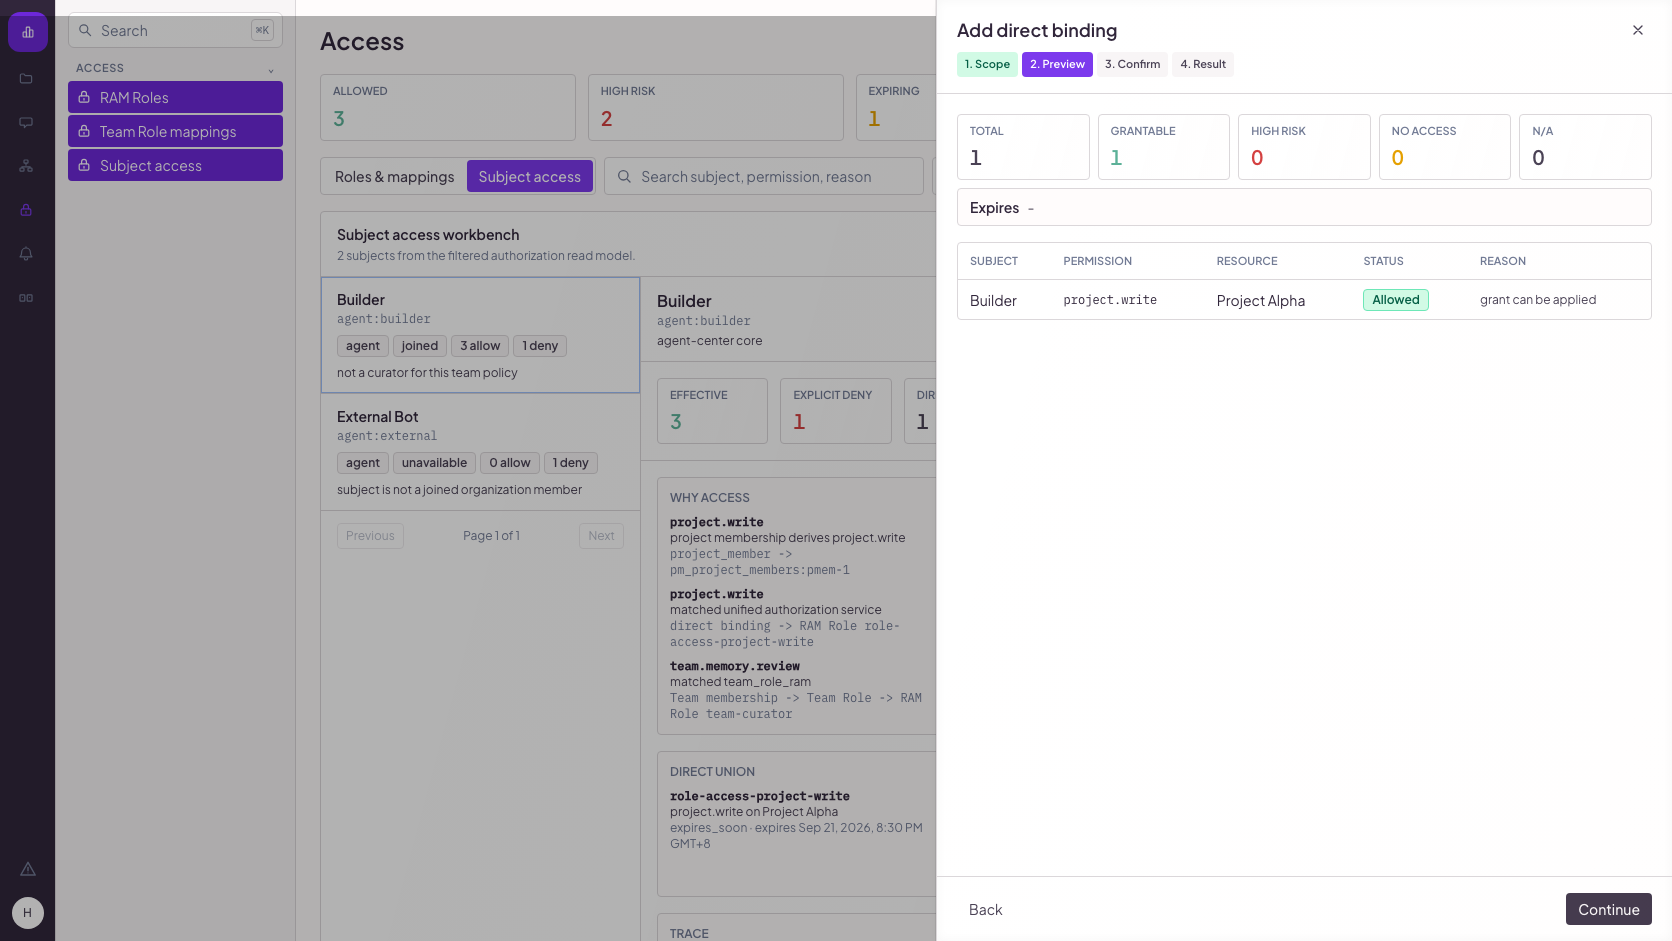
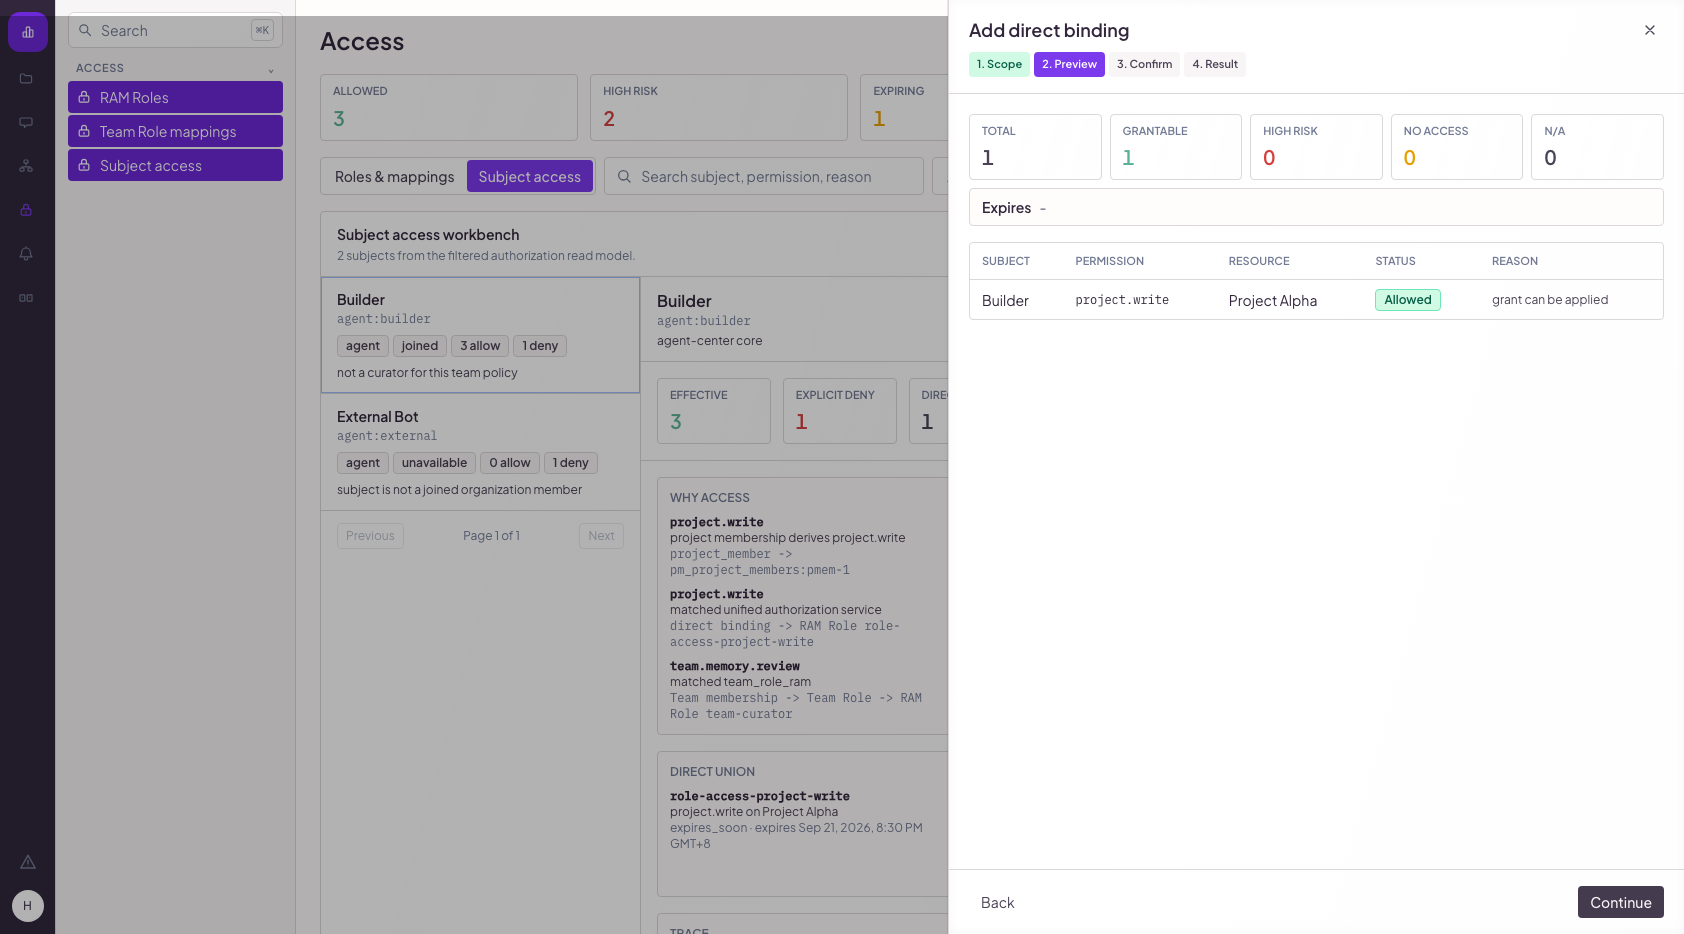
fix(access): enforce subject deny precedence

diff --git a/internal/webconsole/api/handlers_access_test.go b/internal/webconsole/api/handlers_access_test.go
@@ -5,6 +5,7 @@ import (
 	"encoding/json"
 	"fmt"
 	"net/http"
+	"strings"
 	"testing"
 	"time"
 
@@ -420,6 +421,125 @@ func TestAccessOverviewDirectBindingUsesResolverExpiryFailClosed(t *testing.T) {
 			t.Fatalf("expired direct assignment surfaced as grant: %+v", overview.Grants)
 		}
 	}
+}
+
+func TestAccessOverviewExplicitDenyPrecedesDirectBinding(t *testing.T) {
+	deps, db := setupAPIWithAuth(t)
+	sess := setupTestSession(t, db, deps)
+	deps.Authorizer = authz.New(authz.Deps{DB: db, Mode: authz.EnforcementEnforce})
+	now := time.Now().UTC().Format(time.RFC3339Nano)
+	if _, err := db.ExecContext(context.Background(), `INSERT INTO identities (id, kind, display_name, passcode_hash, created_at, updated_at)
+		VALUES ('denied-user', 'user', 'Denied User', 'x', ?, ?)`, now, now); err != nil {
+		t.Fatal(err)
+	}
+	if _, err := db.ExecContext(context.Background(), `INSERT INTO members (id, organization_id, identity_id, role, status, joined_at, disabled_at, disabled_reason)
+		VALUES ('member-denied-user', ?, 'denied-user', 'member', 'disabled', ?, ?, 'explicit test disable')`, sess.OrgID, now, now); err != nil {
+		t.Fatal(err)
+	}
+	if _, err := db.ExecContext(context.Background(), `INSERT INTO authorization_roles (id, org_id, kind, name, description, created_by, created_at, updated_at, version)
+		VALUES ('role-denied-org-reader', ?, 'custom', 'Denied direct reader', '', 'system', ?, ?, 1)`, sess.OrgID, now, now); err != nil {
+		t.Fatal(err)
+	}
+	if _, err := db.ExecContext(context.Background(), `INSERT INTO authorization_role_permissions (role_id, permission_key, resource_kind, delegatable, created_at)
+		VALUES ('role-denied-org-reader', 'org.read', 'org', 0, ?)`, now); err != nil {
+		t.Fatal(err)
+	}
+	if _, err := db.ExecContext(context.Background(), `INSERT INTO authorization_role_assignments (id, org_id, subject_ref, role_id, resource_kind, resource_id, created_by, created_at)
+		VALUES ('asgn-denied-org-reader', ?, 'user:denied-user', 'role-denied-org-reader', 'org', ?, 'system', ?)`, sess.OrgID, sess.OrgID, now); err != nil {
+		t.Fatal(err)
+	}
+	server := newTestServer(t, deps)
+	defer server.Close()
+
+	resp := orgScopedGet(t, server.URL+"/api/access/overview?q=Denied%20User", sess)
+	if resp.StatusCode != http.StatusOK {
+		t.Fatalf("overview status=%d body=%v", resp.StatusCode, decodeBody(t, resp))
+	}
+	var overview struct {
+		Decisions []struct {
+			SubjectRef  string `json:"subject_ref"`
+			Permission  string `json:"permission"`
+			Status      string `json:"status"`
+			Reason      string `json:"reason"`
+			GrantID     string `json:"grant_id"`
+			EvidenceRef string `json:"evidence_ref"`
+		} `json:"decisions"`
+		Grants []struct {
+			ID string `json:"id"`
+		} `json:"grants"`
+	}
+	if err := json.NewDecoder(resp.Body).Decode(&overview); err != nil {
+		t.Fatal(err)
+	}
+	resp.Body.Close()
+	var found bool
+	for _, decision := range overview.Decisions {
+		if decision.SubjectRef == "user:denied-user" && decision.Permission == "org.read" {
+			found = true
+			if decision.Status != "denied" || decision.GrantID != "" || !strings.Contains(decision.Reason, "explicit deny precedence") {
+				t.Fatalf("org.read did not remain explicitly denied: %+v", decision)
+			}
+			if strings.Contains(decision.EvidenceRef, "asgn-denied-org-reader") {
+				t.Fatalf("direct allow assignment displaced explicit deny evidence: %+v", decision)
+			}
+		}
+	}
+	if !found {
+		t.Fatalf("missing denied org.read decision: %+v", overview.Decisions)
+	}
+	for _, grant := range overview.Grants {
+		if grant.ID == "asgn-denied-org-reader" {
+			t.Fatalf("explicitly denied direct assignment surfaced as grant: %+v", overview.Grants)
+		}
+	}
+}
+
+func TestAccessOverviewResolverErrorsSurfaceFailClosedRows(t *testing.T) {
+	deps, db := setupAPIWithAuth(t)
+	sess := setupTestSession(t, db, deps)
+	deps.Authorizer = authz.New(authz.Deps{DB: db, Mode: authz.EnforcementEnforce})
+	now := time.Now().UTC().Format(time.RFC3339Nano)
+	if _, err := db.ExecContext(context.Background(), `INSERT INTO authorization_roles (id, org_id, kind, name, description, created_by, created_at, updated_at, version)
+		VALUES ('role-invalid-resource', ?, 'custom', 'Invalid resource', '', 'system', ?, ?, 1)`, sess.OrgID, now, now); err != nil {
+		t.Fatal(err)
+	}
+	if _, err := db.ExecContext(context.Background(), `INSERT INTO authorization_role_permissions (role_id, permission_key, resource_kind, delegatable, created_at)
+		VALUES ('role-invalid-resource', 'org.read', 'org', 0, ?)`, now); err != nil {
+		t.Fatal(err)
+	}
+	if _, err := db.ExecContext(context.Background(), `INSERT INTO authorization_role_assignments (id, org_id, subject_ref, role_id, resource_kind, resource_id, created_by, created_at)
+		VALUES ('asgn-invalid-resource-overview', ?, ?, 'role-invalid-resource', 'invalid', 'bad-resource', 'system', ?)`, sess.OrgID, authz.UserSubject(sess.IdentityID), now); err != nil {
+		t.Fatal(err)
+	}
+	server := newTestServer(t, deps)
+	defer server.Close()
+
+	resp := orgScopedGet(t, server.URL+"/api/access/overview?q=resolver%20failed%20closed", sess)
+	if resp.StatusCode != http.StatusOK {
+		t.Fatalf("overview status=%d body=%v", resp.StatusCode, decodeBody(t, resp))
+	}
+	var overview struct {
+		Decisions []struct {
+			Permission  string `json:"permission"`
+			Status      string `json:"status"`
+			Reason      string `json:"reason"`
+			EvidenceRef string `json:"evidence_ref"`
+			Resource    struct {
+				Kind string `json:"kind"`
+				ID   string `json:"id"`
+			} `json:"resource"`
+		} `json:"decisions"`
+	}
+	if err := json.NewDecoder(resp.Body).Decode(&overview); err != nil {
+		t.Fatal(err)
+	}
+	resp.Body.Close()
+	for _, decision := range overview.Decisions {
+		if decision.Permission == "access.resolve" && decision.Status == "denied" && strings.Contains(decision.Reason, "resolver failed closed") && decision.Resource.Kind == "invalid" {
+			return
+		}
+	}
+	t.Fatalf("missing fail-closed resolver row: %+v", overview.Decisions)
 }
 
 func TestAccessRAMRolesPersistVersionsCASRevokeAndReferences(t *testing.T) {

diff --git a/internal/webconsole/api/handlers_access.go b/internal/webconsole/api/handlers_access.go
@@ -1401,10 +1401,17 @@ func (s *accessDerivedState) addDecision(subjectRef, permission string, resource
 func (s accessDerivedState) authorizedDecisions(ctx context.Context, svc *authz.Service) []accessDecisionDTO {
 	out := make([]accessDecisionDTO, 0, len(s.decisions))
 	seen := map[string]struct{}{}
+	outIndex := map[string]int{}
 	resources := s.decisionResources()
 	for _, decision := range s.decisions {
 		key := strings.Join([]string{decision.SubjectRef, decision.Permission, resourceKey(decision.Resource)}, "|")
 		if _, ok := seen[key]; ok {
+			if decision.Status == "denied" {
+				decision = s.explicitDenyDecision(decision)
+				if idx, exists := outIndex[key]; exists {
+					out[idx] = decision
+				}
+			}
 			continue
 		}
 		seen[key] = struct{}{}
@@ -1421,9 +1428,16 @@ func (s accessDerivedState) authorizedDecisions(ctx context.Context, svc *authz.
 			decision.EvidenceRef = "permission_registry:" + decision.Permission
 			decision.GrantID = ""
 			out = append(out, decision)
+			outIndex[key] = len(out) - 1
 			continue
 		}
-		explain, err := svc.Explain(ctx, authz.CheckRequest{
+		if decision.Status == "denied" {
+			decision = s.explicitDenyDecision(decision)
+			out = append(out, decision)
+			outIndex[key] = len(out) - 1
+			continue
+		}
+		explain, err := svc.ResolveEffective(ctx, authz.CheckRequest{
 			SubjectRef: authz.SubjectRef(decision.SubjectRef),
 			Transport:  authz.TransportWeb,
 			Permission: authz.PermissionKey(decision.Permission),
@@ -1454,9 +1468,28 @@ func (s accessDerivedState) authorizedDecisions(ctx context.Context, svc *authz.
 			decision.GrantID = ""
 		}
 		out = append(out, decision)
+		outIndex[key] = len(out) - 1
 	}
-	out = s.appendAdditionalEffectiveDecisions(ctx, svc, out, seen, resources)
+	deniedKeys := map[string]struct{}{}
+	for _, decision := range out {
+		if decision.Status == "denied" {
+			deniedKeys[strings.Join([]string{decision.SubjectRef, decision.Permission, resourceKey(decision.Resource)}, "|")] = struct{}{}
+		}
+	}
+	out = s.appendAdditionalEffectiveDecisions(ctx, svc, out, seen, deniedKeys, resources)
 	return out
+}
+
+func (s accessDerivedState) explicitDenyDecision(decision accessDecisionDTO) accessDecisionDTO {
+	def := s.catalogByKey[decision.Permission]
+	decision.Allowed = false
+	decision.Status = "denied"
+	decision.GrantID = ""
+	decision.Risk = fallback(decision.Risk, fallback(def.Risk, "high"))
+	if !strings.HasPrefix(decision.Reason, "explicit deny precedence:") {
+		decision.Reason = "explicit deny precedence: " + fallback(decision.Reason, "authorization source denied this permission")
+	}
+	return decision
 }
 
 func (s accessDerivedState) decisionResources() []accessResourceScopeDTO {
@@ -1481,7 +1514,7 @@ func (s accessDerivedState) decisionResources() []accessResourceScopeDTO {
 	return resources
 }
 
-func (s accessDerivedState) appendAdditionalEffectiveDecisions(ctx context.Context, svc *authz.Service, decisions []accessDecisionDTO, seen map[string]struct{}, resources []accessResourceScopeDTO) []accessDecisionDTO {
+func (s accessDerivedState) appendAdditionalEffectiveDecisions(ctx context.Context, svc *authz.Service, decisions []accessDecisionDTO, seen map[string]struct{}, deniedKeys map[string]struct{}, resources []accessResourceScopeDTO) []accessDecisionDTO {
 	seenEffective := map[string]struct{}{}
 	for _, decision := range decisions {
 		seenEffective[accessEffectiveDecisionKey(decision)] = struct{}{}
@@ -1490,6 +1523,17 @@ func (s accessDerivedState) appendAdditionalEffectiveDecisions(ctx context.Conte
 		for _, resource := range resources {
 			effective, err := svc.ListEffective(ctx, authz.SubjectRef(subj.Ref), accessAuthzResource(resource))
 			if err != nil {
+				decisions = append(decisions, accessDecisionDTO{
+					Allowed:     false,
+					SubjectRef:  subj.Ref,
+					Permission:  "access.resolve",
+					Resource:    resource,
+					Source:      string(authz.SourceSystem),
+					Reason:      "resolver failed closed: " + err.Error(),
+					EvidenceRef: "authorization_resolver:" + resourceKey(resource),
+					Status:      "denied",
+					Risk:        "high",
+				})
 				continue
 			}
 			resolved := accessResourceFromAuthz(effective.Resource, resource)
@@ -1498,6 +1542,9 @@ func (s accessDerivedState) appendAdditionalEffectiveDecisions(ctx context.Conte
 					continue
 				}
 				key := strings.Join([]string{subj.Ref, string(permission.Key), resourceKey(resolved)}, "|")
+				if _, denied := deniedKeys[key]; denied {
+					continue
+				}
 				if _, ok := seen[key]; ok && permission.Source != authz.SourceCustomRole && permission.Source != authz.SourceTeamRoleRAM {
 					continue
 				}

diff --git a/docs/acceptance/t1458-subject-access/REPORT.md b/docs/acceptance/t1458-subject-access/REPORT.md
@@ -10,29 +10,28 @@ Recovery reviewed: `7444e6a9b729d75eab531ba4fa9f35bcb121d4df`.
 - Subject roster supports filtered API results and pagination.
 - Selected subject detail includes metrics, why access, direct binding union, explicit deny/N/A, summary/activity, trace, audit, and the full decision table.
 - Subject view no longer renders the permission catalog; catalog remains in Roles & mappings.
-- Backend `/access/overview` discovers direct-binding resource scopes from `authorization_role_assignments`, then uses the unified authorization resolver for all effective `custom_role` decisions so expiry and fail-closed behavior are shared with production authz.
+- Backend `/access/overview` discovers direct-binding resource scopes from `authorization_role_assignments`, then uses the unified authorization resolver for effective decisions so expiry and fail-closed behavior are shared with production authz.
+- Explicit denied decisions now take precedence over direct/custom allow rows for the same subject/permission/resource, and resolver failures surface as denied `access.resolve` rows instead of being silently dropped.
 
 ## Verification
 
-- `go test ./internal/webconsole/api -run 'TestAccess(EffectiveBatchAndRevokeContract|OverviewShowsTeamRAMAndDirectBindingUnion|OverviewDirectBindingUsesResolverExpiryFailClosed|RAMRolesPersistVersionsCASRevokeAndReferences)'`
-- `go test ./...`
-- `pnpm --dir web typecheck`
-- `pnpm --dir web test -- Access.test.tsx` (Vitest ran the full suite: 191 files / 1791 tests passed)
+- `go test ./internal/webconsole/api -run 'TestAccessOverview(ShowsTeamRAMAndDirectBindingUnion|DirectBindingUsesResolverExpiryFailClosed|ExplicitDenyPrecedesDirectBinding|ResolverErrorsSurfaceFailClosedRows)|TestAccessEffectiveBatchAndRevokeContract|TestAccessRAMRoles'`
+- `pnpm --dir web test -- src/pages/Access.test.tsx` (Vitest expanded to the full suite: 191 files / 1791 tests passed)
 - `node docs/acceptance/t1458-subject-access/capture-subject-access.mjs`
 
 ## Screenshot Evidence
 
-All screenshots were captured fresh from this working tree with a `1672x941` viewport. `sips -g pixelWidth -g pixelHeight docs/acceptance/t1458-subject-access/*.png` confirms every PNG is `1672x941`.
+All screenshots were captured fresh from this working tree with a `1684x934` viewport. `sips -g pixelWidth -g pixelHeight docs/acceptance/t1458-subject-access/*.png` confirms every PNG is `1684x934`.
 
[18 lines of base64/hex data omitted]
 
 ## Baseline Limitation
 
